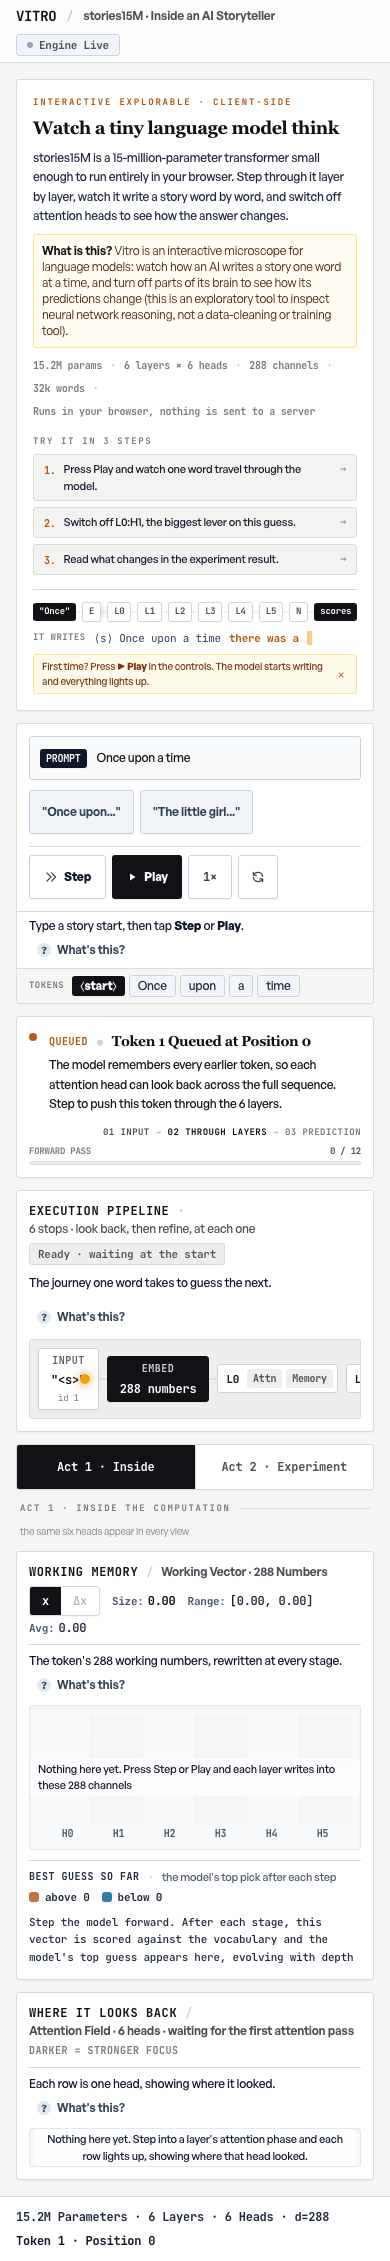
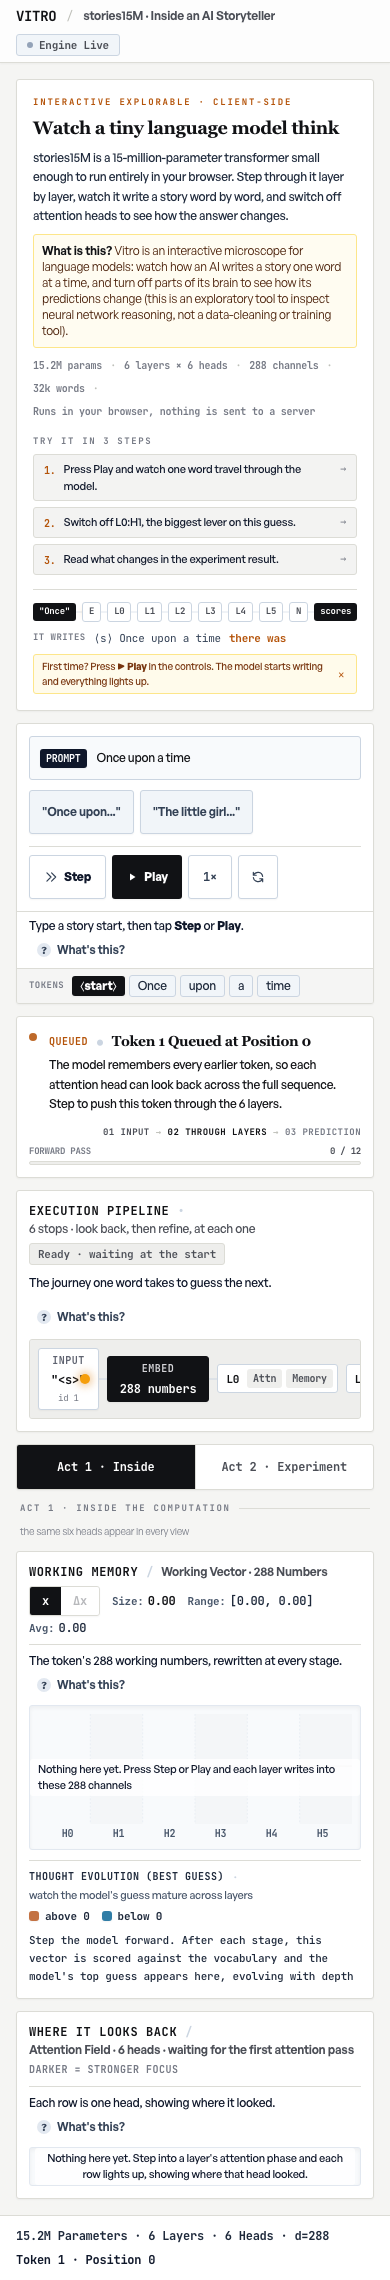
Combine Thought Evolution Strip with interactive Attention Connecting Rays on token tape

diff --git a/src/ui/components/WorkbenchToolbar.svelte b/src/ui/components/WorkbenchToolbar.svelte
@@ -9,6 +9,7 @@
   export let currentPos: number = 0;
   export let generatedTokens: { id: number; piece: string }[] = [];
   export let highlighted: boolean = false;
+  export let attentionRays: { layer: number; head: number; weights: number[] } | null = null;
 
   const dispatch = createEventDispatcher<{
     tokensChange: { prompt: string; tokens: number[] };
@@ -39,6 +40,44 @@
 
   let tokenItems: TokenDisplay[] = [];
   let tokenStrip: HTMLElement | null = null;
+  let chipEls: Record<number, HTMLElement> = {};
+
+  interface ArcPath {
+    d: string;
+    targetX: number;
+    targetY: number;
+    weight: number;
+    isTop: boolean;
+  }
+  let arcPaths: ArcPath[] = [];
+
+  $: if (attentionRays && tokenStrip && chipEls[currentPos]) {
+    const fromEl = chipEls[currentPos];
+    const fromX = fromEl.offsetLeft + fromEl.offsetWidth / 2;
+    const y = 26;
+    const weights = attentionRays.weights;
+    const maxW = Math.max(...weights);
+    const paths: ArcPath[] = [];
+
+    for (let t = 0; t < currentPos; t++) {
+      const toEl = chipEls[t];
+      const w = weights[t] ?? 0;
+      if (!toEl || w < 0.04) continue;
+      const toX = toEl.offsetLeft + toEl.offsetWidth / 2;
+      const dx = Math.abs(fromX - toX);
+      const h = Math.min(22, Math.max(8, dx * 0.2));
+      paths.push({
+        d: `M ${fromX} ${y} C ${fromX} ${y - h}, ${toX} ${y - h}, ${toX} ${y}`,
+        targetX: toX,
+        targetY: y,
+        weight: w,
+        isTop: w === maxW,
+      });
+    }
+    arcPaths = paths;
+  } else {
+    arcPaths = [];
+  }
 
   // Keep the newest token in view as the stream grows
   $: if (tokenStrip && (generatedTokens.length || tokenItems.length)) {
@@ -225,8 +264,37 @@
     </details>
   </div>
 
-  <!-- Autoregressive Token Stream: BOS → prompt prefill → generated (full-width row, auto-scrolls to newest) -->
+  <!-- Autoregressive Token Stream with Attention Rays -->
   <div class="border-t border-hairline bg-canvas-elevated/60">
+    {#if attentionRays && currentPos > 0 && arcPaths.length > 0}
+      <div class="px-3 pt-1.5 flex items-center justify-between text-[10px] font-mono">
+        <span class="text-accent-bronze font-bold flex items-center gap-1.5">
+          <span class="w-1.5 h-1.5 rounded-full bg-accent-bronze animate-pulse"></span>
+          <span>Head L{attentionRays.layer}:H{attentionRays.head} Attention Rays</span>
+        </span>
+        <span class="text-ink-muted">curved arcs = words this head looks back to</span>
+      </div>
+      <div class="relative w-full overflow-hidden px-3 h-7 pointer-events-none">
+        <svg class="w-full h-full overflow-visible">
+          {#each arcPaths as arc}
+            <path
+              d={arc.d}
+              fill="none"
+              stroke="rgba(217, 119, 6, {Math.max(0.3, Math.min(1, arc.weight * 1.3))})"
+              stroke-width={Math.max(1, arc.weight * 3.5)}
+              stroke-dasharray={arc.isTop ? 'none' : '3,2'}
+            />
+            <circle
+              cx={arc.targetX}
+              cy={arc.targetY}
+              r={arc.isTop ? 2.5 : 1.5}
+              fill="#d97706"
+            />
+          {/each}
+        </svg>
+      </div>
+    {/if}
+
     <div
       bind:this={tokenStrip}
       class="flex items-center gap-1 overflow-x-auto px-3 py-1.5 scrollbar-none"
@@ -238,6 +306,7 @@
 
       <!-- BOS chip at position 0 -->
       <div
+        bind:this={chipEls[0]}
         class={`inline-flex items-center px-2 py-0.5 rounded text-xs transition-all shrink-0 ${
           currentPos === 0
             ? 'bg-ink text-white font-bold shadow-sm'
@@ -246,21 +315,29 @@
         title="Position #0 · start-of-sequence token (ID 1), the model's fixed starting point"
       >
         <span class="font-sans">⟨start⟩</span><span class="sr-only">⟨s⟩</span>
+        {#if attentionRays && currentPos > 0 && (attentionRays.weights[0] ?? 0) >= 0.08}
+          <span class="ml-1 text-[8px] font-mono font-bold text-accent-bronze">{(attentionRays.weights[0] * 100).toFixed(0)}%</span>
+        {/if}
       </div>
 
       <!-- Prompt tokens (teacher-forced prefill at positions 1..n) -->
       {#each tokenItems as item, idx}
         {@const pos = idx + 1}
         {@const isActive = pos === currentPos}
+        {@const attnW = attentionRays && currentPos > pos ? (attentionRays.weights[pos] ?? 0) : 0}
         <div
+          bind:this={chipEls[pos]}
           class={`inline-flex items-center px-2 py-0.5 rounded text-xs transition-all shrink-0 ${
             isActive
               ? 'bg-ink text-white font-bold shadow-sm'
               : 'bg-slate-100 border border-slate-300 text-slate-800 hover:border-slate-400 font-medium'
           }`}
-          title={`Position #${pos} · your prompt token (ID ${item.id})`}
+          title={`Position #${pos} · your prompt token (ID ${item.id})${attnW >= 0.08 ? ` · received ${(attnW * 100).toFixed(0)}% attention` : ''}`}
         >
           <span class="font-sans">{item.text === ' ' ? '␣' : item.text}</span>
+          {#if attnW >= 0.08}
+            <span class="ml-1 text-[8px] font-mono font-bold text-accent-bronze">{(attnW * 100).toFixed(0)}%</span>
+          {/if}
         </div>
       {/each}
 
@@ -268,15 +345,20 @@
       {#each generatedTokens as item, gIdx}
         {@const pos = tokenItems.length + 1 + gIdx}
         {@const isActive = pos === currentPos}
+        {@const attnW = attentionRays && currentPos > pos ? (attentionRays.weights[pos] ?? 0) : 0}
         <div
+          bind:this={chipEls[pos]}
           class={`inline-flex items-center px-2 py-0.5 rounded text-xs transition-all shrink-0 border animate-token-pop ${
             isActive
               ? 'bg-amber-600 text-white font-bold border-amber-700 shadow-sm'
               : 'bg-amber-50 border-amber-300 text-amber-950 font-semibold'
           }`}
-          title={`Position #${pos} · written by the model (ID ${item.id})`}
+          title={`Position #${pos} · written by the model (ID ${item.id})${attnW >= 0.08 ? ` · received ${(attnW * 100).toFixed(0)}% attention` : ''}`}
         >
           <span class="font-sans">{item.piece === ' ' ? '␣' : item.piece}</span>
+          {#if attnW >= 0.08}
+            <span class="ml-1 text-[8px] font-mono font-bold text-amber-900">{(attnW * 100).toFixed(0)}%</span>
+          {/if}
         </div>
       {/each}
     </div>

diff --git a/src/ui/components/ResidualStreamView.svelte b/src/ui/components/ResidualStreamView.svelte
@@ -8,6 +8,7 @@
 
   const dispatch = createEventDispatcher<{
     selectHead: { layer: number; head: number };
+    headFocus: { layer: number; head: number } | null;
   }>();
 
   export let stepState: StepState | null = null;
@@ -447,9 +448,9 @@
   <div class="mt-2.5 pt-2 border-t border-hairline text-[11px] font-mono min-w-0">
     <div class="flex flex-wrap items-center justify-between gap-y-1 gap-x-2 min-w-0">
       <div class="flex flex-wrap items-center gap-x-2 gap-y-0.5 min-w-0">
-        <span class="text-[10px] font-bold uppercase tracking-wider text-slate-800">Best Guess So Far</span>
+        <span class="text-[10px] font-bold uppercase tracking-wider text-slate-800" title="Technical term: Logit Lens. Translates intermediate working memory into top vocabulary guesses at each layer.">Thought Evolution (Best Guess)</span>
         <span class="text-slate-300 font-bold">·</span>
-        <span class="text-slate-600 font-sans font-medium">the model's top pick after each step</span>
+        <span class="text-slate-600 font-sans font-medium">watch the model's guess mature across layers</span>
       </div>
 
       <div class="flex items-center gap-3 text-slate-800 font-bold">
@@ -466,16 +467,38 @@
 
     {#if lensHistory.length > 0}
       <!-- Depth progression: how the leading token candidate morphs L0 → L5 -->
-      <div class="mt-1.5 flex items-center gap-1 overflow-x-auto scrollbar-none pb-0.5">
+      <div class="mt-2 flex items-center gap-1.5 overflow-x-auto scrollbar-none pb-1">
         {#each lensHistory as entry, i}
           {@const isLatest = i === lensHistory.length - 1}
-          <div class="flex items-center gap-1 shrink-0">
-            <div class="flex flex-col items-center px-1.5 py-0.5 rounded border transition-all duration-200 {isLatest ? 'border-ink bg-ink shadow-sm' : 'border-hairline bg-canvas-elevated'}">
-              <span class="text-[8px] font-bold uppercase tracking-wider {isLatest ? 'text-zinc-400' : 'text-ink-muted'}">{entry.label}</span>
-              <span class="text-[11px] font-bold font-sans whitespace-nowrap {isLatest ? 'text-white' : 'text-ink'}">{entry.top[0]?.tokenPiece ?? '·'}</span>
+          {@const top = entry.top[0]}
+          {@const pct = top?.prob !== undefined ? Math.round(top.prob * 100) : null}
+          {@const layerNum = parseInt(entry.label.replace(/^L(\d+).*/, '$1'), 10)}
+          {@const displayLabel = Number.isFinite(layerNum) ? `L${layerNum}` : entry.label}
+          {@const mappedHead = layerNum === 0 ? 1 : layerNum === 5 ? 3 : null}
+
+          <div class="flex items-center gap-1.5 shrink-0">
+            <div
+              role="button"
+              tabindex="0"
+              on:click={() => mappedHead !== null && dispatch('selectHead', { layer: layerNum, head: mappedHead })}
+              on:mouseenter={() => mappedHead !== null && dispatch('headFocus', { layer: layerNum, head: mappedHead })}
+              on:mouseleave={() => dispatch('headFocus', null)}
+              on:keydown={(e) => {
+                if ((e.key === 'Enter' || e.key === ' ') && mappedHead !== null) {
+                  dispatch('selectHead', { layer: layerNum, head: mappedHead });
+                }
+              }}
+              class="flex flex-col items-center px-2 py-1 rounded border transition-all duration-200 {isLatest ? 'border-amber-500 bg-amber-50/80 shadow-sm ring-1 ring-amber-400' : 'border-slate-200 bg-slate-50'} {mappedHead !== null ? 'cursor-pointer hover:border-amber-400 hover:shadow-xs active:scale-95' : ''}"
+              title={mappedHead !== null ? `Click to inspect L${layerNum}:H${mappedHead} attention rays · Top guess: "${top?.tokenPiece.trim() ?? ''}" (${pct ?? '?'}%)` : `${entry.label}: top guess "${top?.tokenPiece.trim() ?? ''}" (${pct ?? '?'}% confidence)`}
+            >
+              <span class="text-[8px] font-bold uppercase tracking-wider {isLatest ? 'text-amber-900 font-extrabold' : 'text-slate-500'}">{displayLabel}</span>
+              <span class="text-xs font-bold font-sans whitespace-nowrap text-ink">{top?.tokenPiece ? `"${top.tokenPiece.trim()}"` : '·'}</span>
+              {#if pct !== null}
+                <span class="text-[9px] font-mono font-semibold {isLatest ? 'text-amber-800 font-bold' : 'text-slate-500'}">{pct}%</span>
+              {/if}
             </div>
             {#if !isLatest}
-              <span class="text-slate-300 font-bold text-[10px]">→</span>
+              <span class="text-slate-400 font-bold text-xs select-none">→</span>
             {/if}
           </div>
         {/each}

diff --git a/src/App.svelte b/src/App.svelte
@@ -39,6 +39,35 @@
   // Cross-view brushing state: hovered head index (0..5)
   let brushedHead: number | null = null;
 
+  // Active attention scores preserved across steps for Attention Rays
+  let lastAttnScores: import('./engine/tensor').Tensor | null = null;
+  let lastAttnLayer: number = 0;
+  $: if ($stateStore?.currentStep?.phase === 'post-attention' && $stateStore.currentStep.attentionScores) {
+    lastAttnScores = $stateStore.currentStep.attentionScores;
+    lastAttnLayer = $stateStore.currentStep.layer;
+  }
+
+  $: activeHeadRays = (() => {
+    if (!lastAttnScores || currentPos <= 0) return null;
+    const h = brushedHead ?? activeLensHead ?? activeSeveredHead ?? 0;
+    const seqLen = lastAttnScores.shape[1];
+    const weights: number[] = [];
+    const off = lastAttnScores.offset + h * seqLen;
+    for (let t = 0; t <= currentPos; t++) {
+      weights.push(lastAttnScores.data[off + t]);
+    }
+    return { layer: lastAttnLayer, head: h, weights };
+  })();
+
+  function handleLensHeadFocus(event: CustomEvent<{ layer: number; head: number } | null>) {
+    if (!event.detail) {
+      activeLensHead = null;
+      return;
+    }
+    activeLensHead = event.detail.head;
+    brushedHead = event.detail.head;
+  }
+
   // Mobile act switcher: on <lg only one column is visible at a time
   let mobileAct: 1 | 2 = 1;
 
@@ -82,6 +111,7 @@
   let interventionRef: InterventionPanel | null = null;
 
   let activeSeveredHead: number | null = null;
+  let activeLensHead: number | null = null;
 
   function handleWhySelectHead(event: CustomEvent<{ layer: number; head: number }>) {
     const { layer, head } = event.detail;
@@ -373,6 +403,7 @@
           {currentPos}
           {generatedTokens}
           highlighted={highlightedTarget === 'controls'}
+          attentionRays={activeHeadRays}
           on:tokensChange={handleTokensChange}
           on:advance={handleAdvance}
           on:userPlay={() => (autoGen = true)}
@@ -431,6 +462,7 @@
               {tokenizer}
               {currentToken}
               on:selectHead={handleWhySelectHead}
+              on:headFocus={handleLensHeadFocus}
             />
 
             <div class="flex-1 min-w-0">

diff --git a/src/engine/analysis.ts b/src/engine/analysis.ts
@@ -12,6 +12,7 @@ export interface TokenPrediction {
   tokenPiece: string;
   logit: number;
   delta?: number;
+  prob?: number;
 }
 
 export interface AblationComparisonResult {
@@ -66,9 +67,19 @@ export function computeLogitLens(
     config.vocabSize
   );
 
-  // 3. Extract top-K
+  // 3. Extract top-K and compute softmax probabilities
   const logitsData = logitsTensor.data;
   const logitsOff = logitsTensor.offset;
+
+  let maxLogit = -Infinity;
+  for (let i = 0; i < config.vocabSize; i++) {
+    const l = logitsData[logitsOff + i];
+    if (l > maxLogit) maxLogit = l;
+  }
+  let sumExp = 0;
+  for (let i = 0; i < config.vocabSize; i++) {
+    sumExp += Math.exp(logitsData[logitsOff + i] - maxLogit);
+  }
 
   const ranked: { idx: number; logit: number }[] = [];
   for (let i = 0; i < config.vocabSize; i++) {
@@ -82,6 +93,7 @@ export function computeLogitLens(
     tokenId: item.idx,
     tokenPiece: tokenizer.decode(prevToken, item.idx),
     logit: item.logit,
+    prob: sumExp > 0 ? Math.exp(item.logit - maxLogit) / sumExp : undefined,
   }));
 }
 
